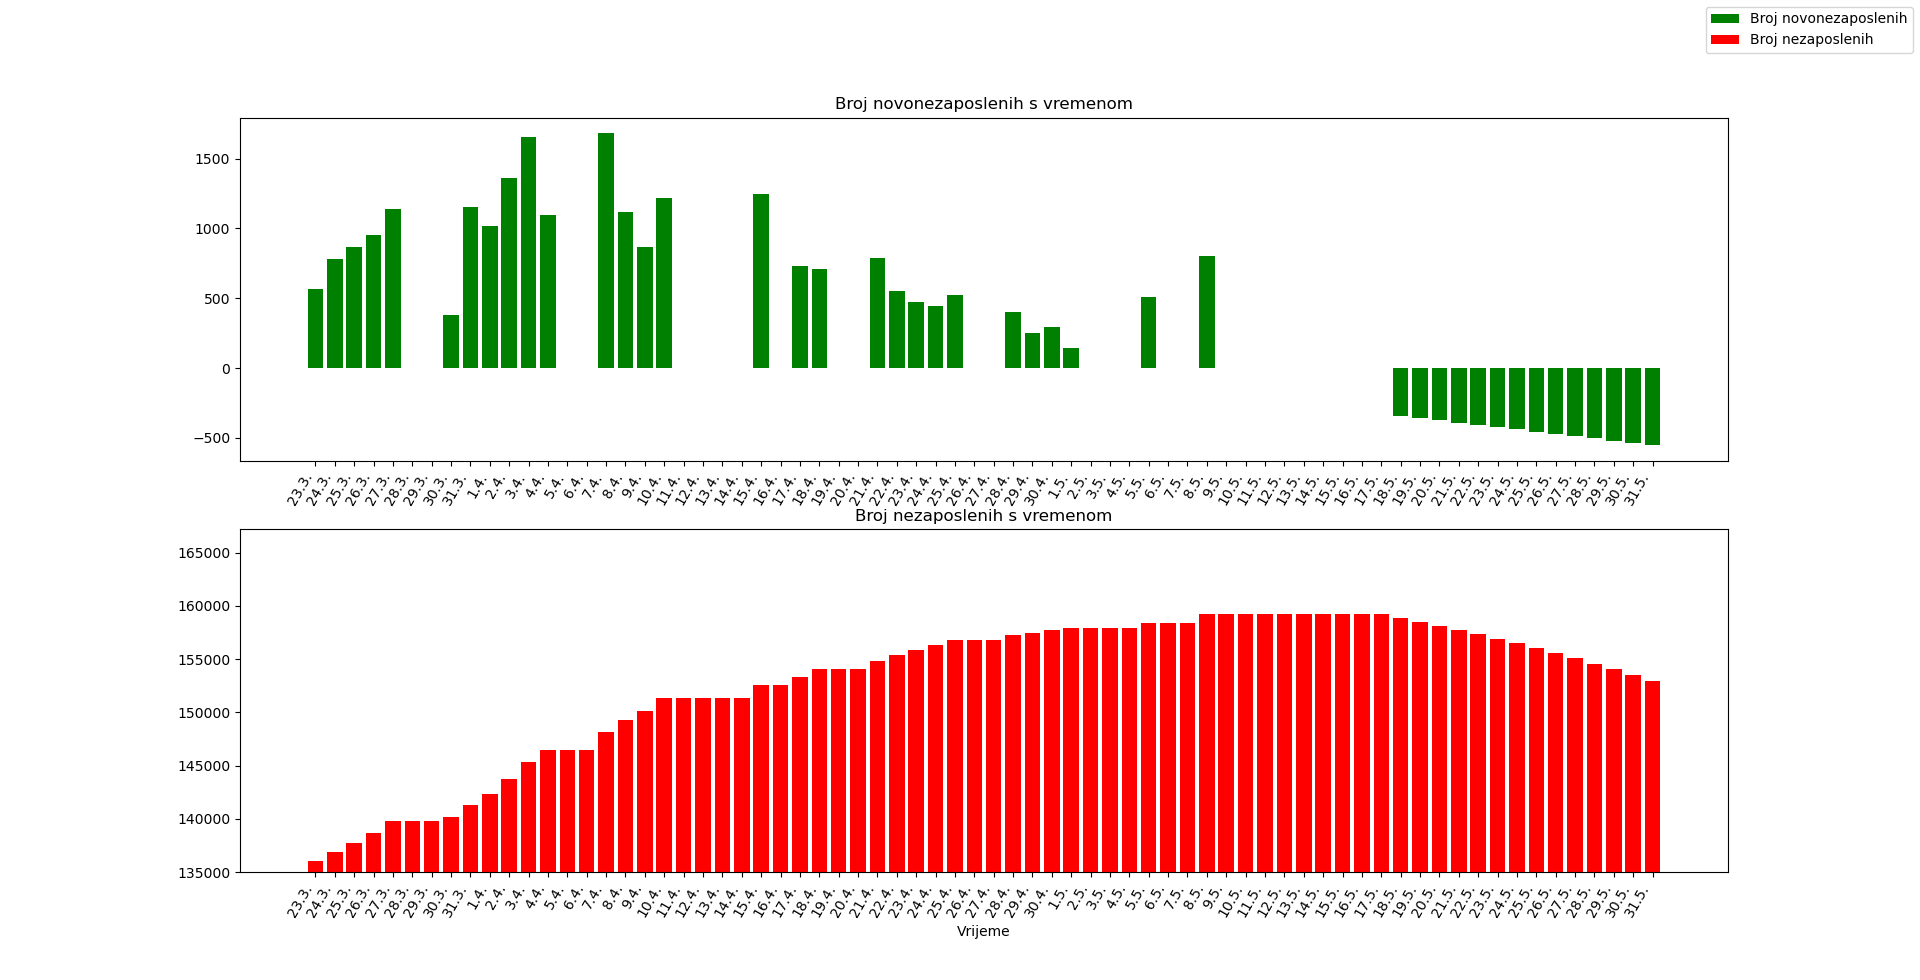
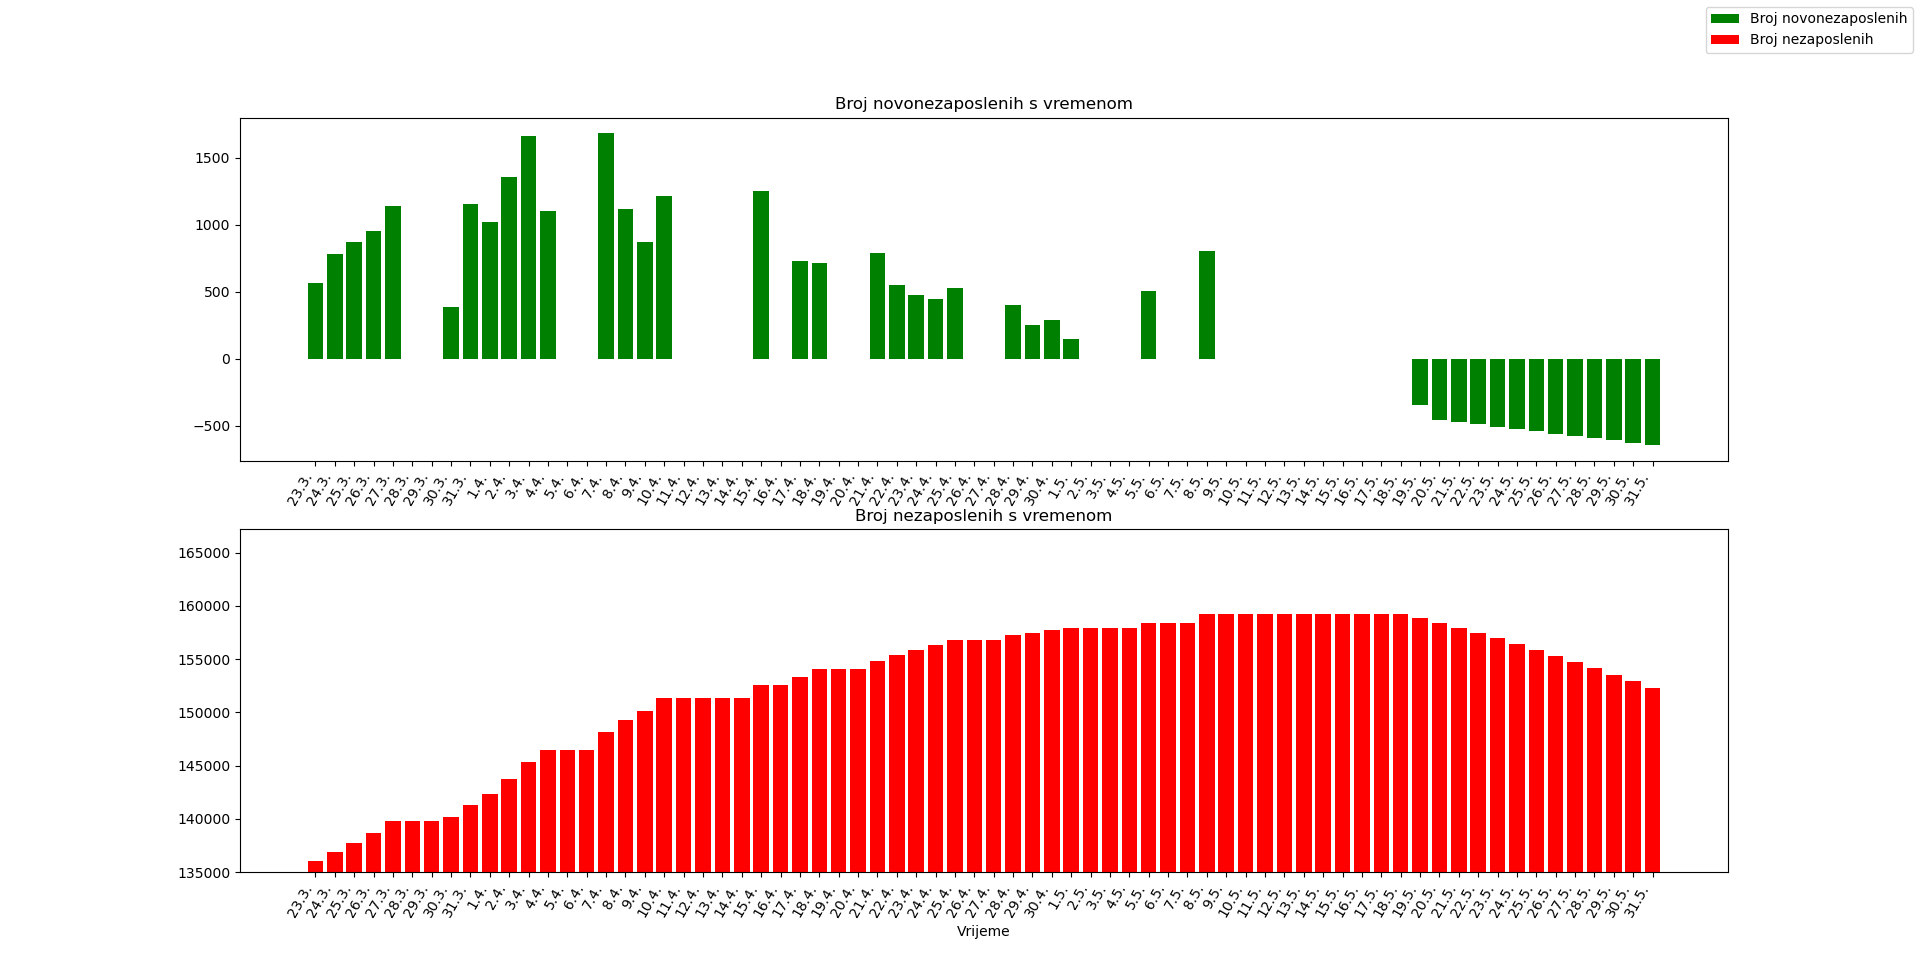
Nezaposlenost update 20.5.

diff --git a/nezaposlenost.py b/nezaposlenost.py
@@ -10,7 +10,7 @@ datumi = ['23.3.', '24.3.', '25.3.', '26.3.', '27.3.', '28.3.', '29.3.', '30.3.'
           '28.5.', '29.5.', '30.5.', '31.5.']
 broj_novonez = [565, 784, 867, 951, 1140, 0, 0, 382, 1153, 1019, 1358, 1658, 1098, 0, 0, 1682, 1115, 867, 1215, 0, 0, 0,
                 0, 1249, 0, 728, 711, 0, 0, 787, 550, 474, 447, 524, 0, 0, 401, 251, 292, 147, 0, 0, 0, 508, 0, 0, 806,
-                0, 0, 0, 0, 0, 0, 0, 0, 0, -343]
+                0, 0, 0, 0, 0, 0, 0, 0, 0, 0, -343, -457]
 osn_broj_nez = 136071
 broj_nez = [136071]
 
